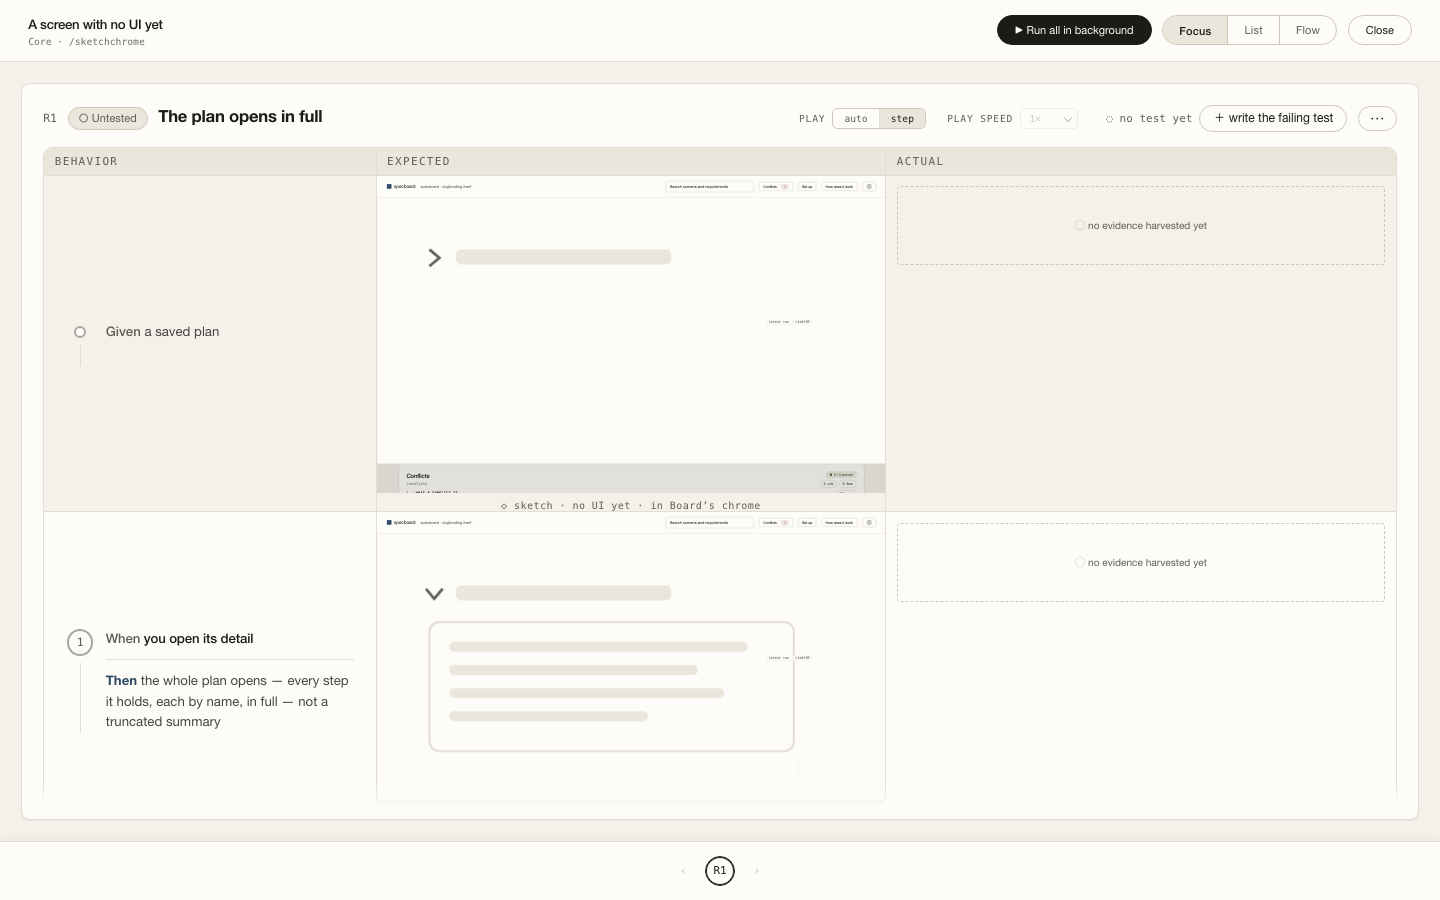
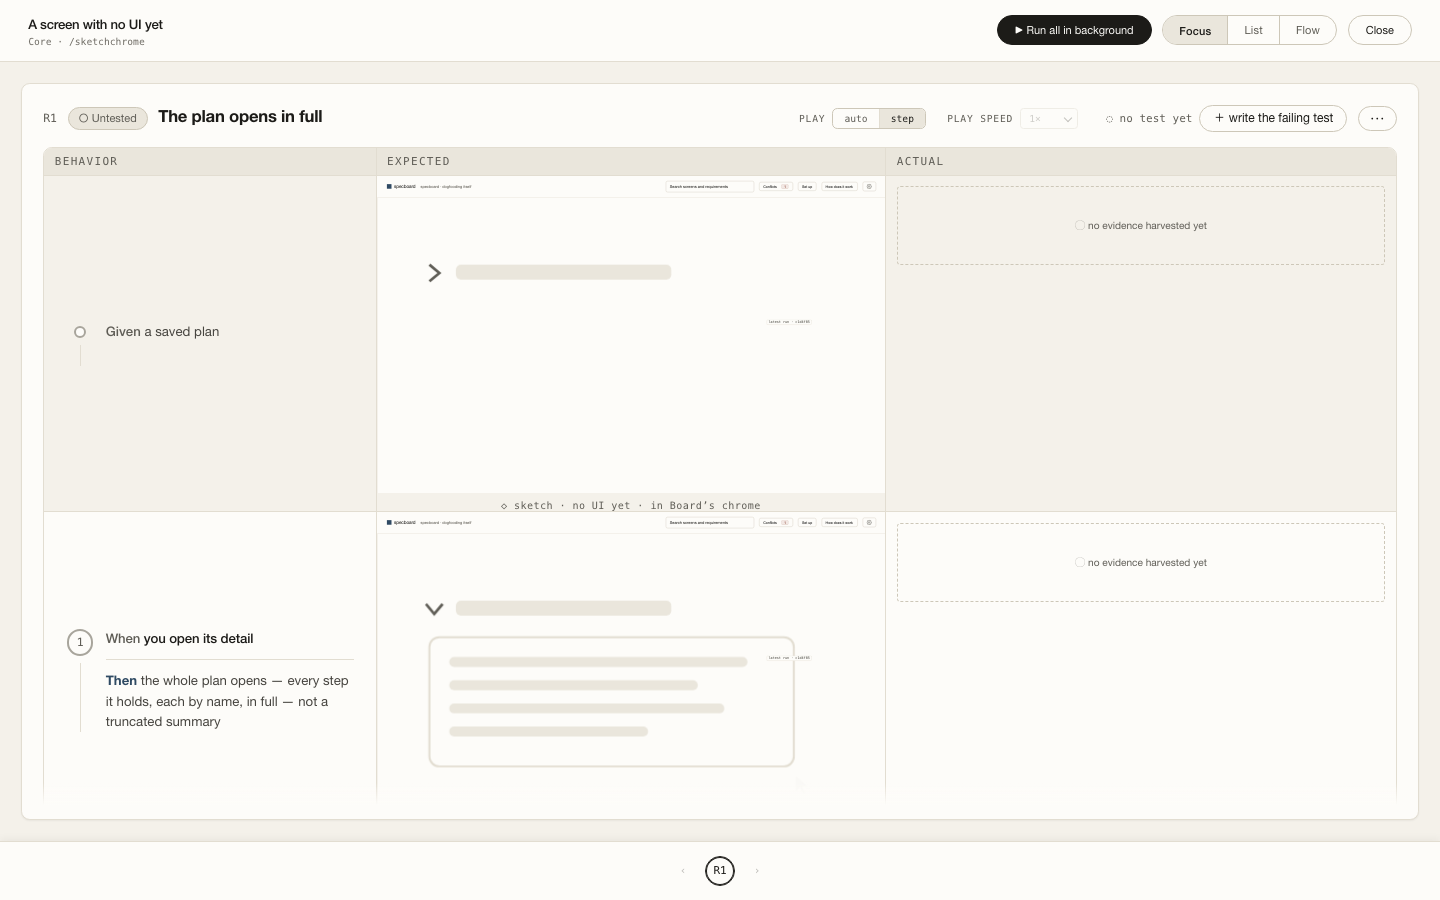
fix(board): the fold is not the page's bottom, and the caption claim names one lender
Fix round 1 of phase 7 — the review's I1, I2, I3 and M1, M2.

I1 — contentRect read the VIEWPORT height as the page's bottom edge, so any wide box that
merely crossed the fold was a footer. Every Before replica is a scrolling document (the
board's own is 1904px in a 900px viewport), and the box it caught was the home page's last
area card: the hole came back 86px short and the lender's own content showed under a caption
saying the row is a sketch. The page's bottom is now the DOCUMENT's — read from the replica's
own data-replica-region, beside the file the chrome is rendered from — so a footer on a long
page correctly takes nothing off the visible hole. And a band must HUG the axis it spans: a
centred 1318px card across a 1440px page is content, not a header. Pinned on the lender's real
numbers: {0,61,1440,839}, measured 753 before.

I2 — the caption claim expected the screen's NAME while the cell renders its TITLE, and
matched `in \S.*'s chrome`, so it recorded a green over two different strings AND passed for
any lender at all — the one fact the leg exists to catch. The cell now carries both
(data-chrome, data-chrometitle), the claim is strict equality against the title the client
rendered, and that title is checked against the tree's own title for the screen whose page is
in the frame: caption, seam and disk must name one screen.

I3 — the lender was asserted against a hard-coded ['board','conflicts','dispatch','init'],
[…]

Changed region(s): [[0.2812, 0.6533, 0.5312, 0.84], [0.25, 0.4978, 0.625, 0.56], [0.2812, 0.28, 0.4688, 0.3111]]

diff --git a/spec/board/test.spec.ts b/spec/board/test.spec.ts
@@ -589,6 +589,12 @@ test('A test tags the requirements it covers — and Focus serves that link', as
     await body.locator('.frmeta .fmenupop [data-prompt="edittest"]').click()
     await expect(page.locator('#promptsheet')).toHaveClass(/\bon\b/)
     await expect(page.locator('#promptbody')).toContainText(flow)         // …and named where it is acted on
+    // FACT 1, CLAIMED where the resolution is acted on: the prompt this row composes NAMES the
+    // covering test — the flow title was read off the test's own row, so a broken tag lookup writes
+    // another test's name here and this fails on the value.
+    await proveVisible(page.locator('#promptbody'), flow,
+      'The covering test that tags it, named in the row\'s own prompt',
+      { soft: true, match: (shown: string) => shown.includes(flow) })
     await page.locator('#promptsheet [data-promptclose]').click()
     // FACT 1, CLAIMED (the authored-intent lint, phase 6): the reader open here is the requirement
     // the TEST's tag names — the expected id was read off the test's tag chip, the value off the
@@ -3404,6 +3410,12 @@ test('A test opens to its evidence and the log opens in a window', async ({ page
       return r.width >= innerWidth - 1 && r.height >= innerHeight - 1
     })
     expect(covers).toBeFalsy()                               // a floating card, not a full-viewport overlay
+    // This block proves the LOG WINDOW — this requirement's THIRD beat — and it is the last
+    // checkReq('R10') in the file, so BEAT_CURSOR files its harvest under beat 1, whose facts are
+    // the story steps, their pending plan and the run's marks. Those live on the baked test row,
+    // hidden since the Columns view retired; they are claimed and declared where the reader stands
+    // on them, in this requirement's own evidence block above.
+    intentGap('this block is about the log window (beat 3) and the cursor files it under beat 1, whose facts are the story steps on the hidden baked row — claimed and declared in this requirement\'s evidence block above')
   })
 })
 
@@ -3543,6 +3555,13 @@ test('Acts 1 and 2 play once, hold, and stand still under reduced motion', async
     expect(await op(req.locator('.sc-canon'))).toBe(1)
     await expect(req.locator('.wflag')).toHaveCount(0)
     await expect(req.locator('.wconfirm')).toHaveCount(0)
+    // THE BEAT'S OWN FACT, CLAIMED (2026-09-04, the review's C1: this block was reading "2 claims"
+    // it never made — an unrelated body credited to it by the lint's own parser — so the beat that
+    // says the walkthrough never advances on its own had no claim at all). Under reduced motion the
+    // END STATE is simply what is on screen: the scene holds it with nothing running, which is the
+    // same sentence from the other side.
+    await proveVisible(req.locator('.sc-canon'), 'canon the moment it\'s written',
+      'The scene, held on its end state — nothing advances on its own', { soft: true })
     await page.emulateMedia({ reducedMotion: null })
   })
 })
@@ -3583,6 +3602,12 @@ test('A deep-linked skill URL shows the skill detail on cold load', async ({ pag
     await expect(page.locator('#skilldetail')).toBeVisible()
     await expect(page.locator('#howoverview')).toBeHidden()
     await expect(page.locator('.flow-panel.open[data-skill="kg-deep"]')).toHaveCount(1)
+    // This block proves the guide's ROUTING on a cold deep link, and it is the LAST checkReq('R11')
+    // in the file — so BEAT_CURSOR files its harvest under R11's beat 1, whose facts are about the
+    // two ACTS of the walkthrough. Those acts are not on screen here at all: the deep link opens the
+    // skill detail and hides #howoverview, which this block asserts two lines above. The acts' own
+    // facts are claimed in the block that opens on them (the same requirement, further up this file).
+    intentGap('this beat lands on the walkthrough\'s two acts, and a cold deep link to a skill hides the overview they live in — the acts are claimed where the reader is standing on them, in this requirement\'s own walkthrough blocks above')
   })
 })
 
@@ -3648,6 +3673,17 @@ test('The guide ends with the derived next action, and there is no rail', async 
       await proveVisible(cta.locator('.wcta-settled'),
         'Every derivable fact already holds — this project\'s requirements are proven.',
         'The one next action, derived from the tree on this build', { soft: true })
+      // …ONE action, claimed as the absence of the other: the your-turn pill is not beside it, so
+      // the panel closes on a single derived next step rather than a menu of them.
+      await proveVisible(cta.locator('.wcta-act'), MISSING,
+        'ONE next action — no second, your-turn pill beside it', { soft: true })
+      // …and two of this Then's clauses have nothing on the guide to read. The `/kg-deep <screen>`
+      // EXAMPLE is the other branch of the same derivation — this tree is settled, so the guide
+      // shows the settled sentence instead — and "when everything derivable already holds" is the
+      // CONDITION that chose it, computed by tools/journey.mjs at build time (seeded and asserted
+      // above), never rendered.
+      intentGap('"for example /kg-deep <screen>" is the UNSETTLED branch of the same derivation: this tree holds every derivable fact, so the guide shows the settled sentence — the branch itself is derived by tools/journey.mjs and unit-tested there')
+      intentGap('"when everything derivable already holds" is the CONDITION the build evaluated (journey(), seeded above), not a value the guide puts on the screen — what the screen shows of it is the sentence claimed on the line above')
     })
   } finally {
     // a seeded file is this test's own litter: remove it and rebuild, so no later test in the run
@@ -4049,6 +4085,12 @@ test('＋ New flow opens the composer — a derived library, the joint check, a 
     await expect(pre).toContainText('failing test FIRST')
     await expect(pre).toContainText('never weaken a test to go green')
     expect(await pre.evaluate(el => el.tagName)).toBe('PRE')
+    // THE FACT, CLAIMED (phase 6 fix round 2): what opens is a READY prompt — the exact file it is
+    // about is in it — and it is read-only prose, so the board wrote nothing. The value is the file
+    // path this composer names, which a prompt built for another screen could not carry.
+    await proveVisible(pre, 'spec/board/test.spec.ts',
+      'A ready prompt, naming the exact file — and the board wrote none of it',
+      { soft: true, match: (shown: string) => shown.includes('spec/board/test.spec.ts') })
   })
 })
 

diff --git a/spec/_fixture.ts b/spec/_fixture.ts
@@ -117,6 +117,24 @@ export function makeSketchScreen (name: string) {
 // truth), computed here so no GIVEN pins "4 screens, 3 areas" as a literal (Task 7 review A2-a: the
 // board and init fixtures each carried that pin, and a fifth screen would have broken three tests in
 // three places). A screen is a directory with a prd.md; its area is the frontmatter's `area`.
+// …and the tree's own NAMES and TITLES, off the same disk read (fix round 1, the review's I3). A
+// test that asks "is this one of the project's screens?" must ask the tree, never a literal list:
+// the comment above treeShape exists because three tests once pinned "4 screens, 3 areas" and a
+// fifth screen broke all three. The TITLE rides along because it is what the board renders wherever
+// a screen is named to a person — a caption asserted against the name would be asserting against a
+// string the app does not show.
+export function screenRows (): Array<{ name: string, title: string }> {
+  const SPEC = join(dirname(fileURLToPath(import.meta.url)))
+  const out: Array<{ name: string, title: string }> = []
+  for (const name of readdirSync(SPEC)) {
+    const prd = join(SPEC, name, 'prd.md')
+    if (name.startsWith('_') || !existsSync(prd)) continue
+    const m = readFileSync(prd, 'utf8').match(/^title:\s*(.+)$/m)
+    out.push({ name, title: m ? m[1].trim() : name })
+  }
+  return out
+}
+
 export function treeShape (): { screens: number, areas: number } {
   const SPEC = join(dirname(fileURLToPath(import.meta.url)))
   const areas = new Set<string>()

diff --git a/tools/board/client.js b/tools/board/client.js
@@ -2395,11 +2395,17 @@ const B = window.__BOARD__ || {}
     const chromeCell = function (ch, park) {
       const cell = document.createElement('div'); cell.className = 'sbframe whole sbsketch sbchrome'
       cell.dataset.chrome = ch.screen
+      // …and the TITLE the caption actually renders (fix round 1, the review's I2). The cell says
+      // "in <title>'s chrome" while `data-chrome` carries the screen's NAME, so a reader of the seam
+      // that wanted to know what the caption claims had to guess the transform — and the board's own
+      // test claimed `board` against a caption reading `Board`, shipping a green ✓ over two different
+      // strings. Both are on the cell now, and neither is derived from the other by anybody else.
       const box = document.createElement('div'); box.className = 'pcbox'
       const ifr = repStage(box, ch, 'a sketch of this requirement, in ' + ch.screen + '’s own page')
       cell.appendChild(box)
       const cap = document.createElement('div'); cap.className = 'sbprov'
-      cap.textContent = '◇ sketch · no UI yet · in ' + (ch.title || ch.screen) + '’s chrome'
+      cell.dataset.chrometitle = ch.title || ch.screen
+      cap.textContent = '◇ sketch · no UI yet · in ' + cell.dataset.chrometitle + '’s chrome'
       cell.appendChild(cap)
       repFetch(ch.replica).then(function (text) {
         if (!cell.isConnected) return
